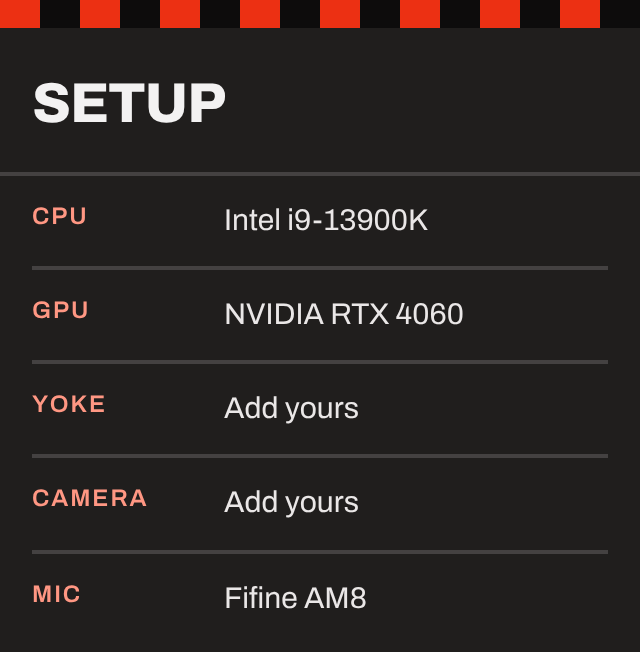
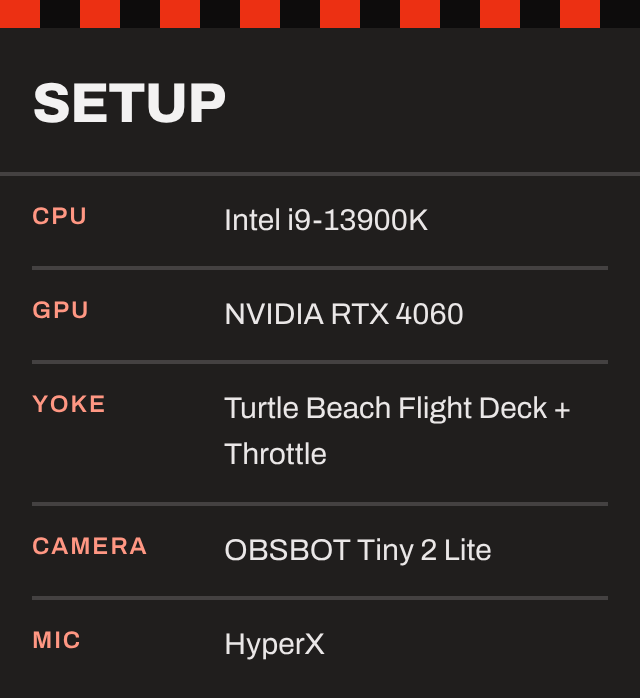
Setup panel: add yoke and camera
Claude-Session: https://claude.ai/code/session_01QHYbKfo8avcPEj3kAuyB7b

diff --git a/panels/index.html b/panels/index.html
@@ -66,9 +66,9 @@
 <div style="display:grid;grid-template-columns:96px 1fr;padding:0 16px 4px;font-size:15px;color:var(--color-neutral-200);">
 <div style="padding:11px 0;border-bottom:2px solid var(--color-neutral-800);font-size:12px;letter-spacing:.08em;text-transform:uppercase;font-weight:600;color:var(--color-accent-400);">CPU</div><div style="padding:11px 0;border-bottom:2px solid var(--color-neutral-800);">Intel i9-13900K</div>
 <div style="padding:11px 0;border-bottom:2px solid var(--color-neutral-800);font-size:12px;letter-spacing:.08em;text-transform:uppercase;font-weight:600;color:var(--color-accent-400);">GPU</div><div style="padding:11px 0;border-bottom:2px solid var(--color-neutral-800);">NVIDIA RTX 4060</div>
-<div style="padding:11px 0;border-bottom:2px solid var(--color-neutral-800);font-size:12px;letter-spacing:.08em;text-transform:uppercase;font-weight:600;color:var(--color-accent-400);">Yoke</div><div style="padding:11px 0;border-bottom:2px solid var(--color-neutral-800);">Add yours</div>
-<div style="padding:11px 0;border-bottom:2px solid var(--color-neutral-800);font-size:12px;letter-spacing:.08em;text-transform:uppercase;font-weight:600;color:var(--color-accent-400);">Camera</div><div style="padding:11px 0;border-bottom:2px solid var(--color-neutral-800);">Add yours</div>
-<div style="padding:11px 0;font-size:12px;letter-spacing:.08em;text-transform:uppercase;font-weight:600;color:var(--color-accent-400);">Mic</div><div style="padding:11px 0;">Fifine AM8</div>
+<div style="padding:11px 0;border-bottom:2px solid var(--color-neutral-800);font-size:12px;letter-spacing:.08em;text-transform:uppercase;font-weight:600;color:var(--color-accent-400);">Yoke</div><div style="padding:11px 0;border-bottom:2px solid var(--color-neutral-800);">Turtle Beach Flight Deck + Throttle</div>
+<div style="padding:11px 0;border-bottom:2px solid var(--color-neutral-800);font-size:12px;letter-spacing:.08em;text-transform:uppercase;font-weight:600;color:var(--color-accent-400);">Camera</div><div style="padding:11px 0;border-bottom:2px solid var(--color-neutral-800);">OBSBOT Tiny 2 Lite</div>
+<div style="padding:11px 0;font-size:12px;letter-spacing:.08em;text-transform:uppercase;font-weight:600;color:var(--color-accent-400);">Mic</div><div style="padding:11px 0;">HyperX</div>
 </div>
 </div>
 
